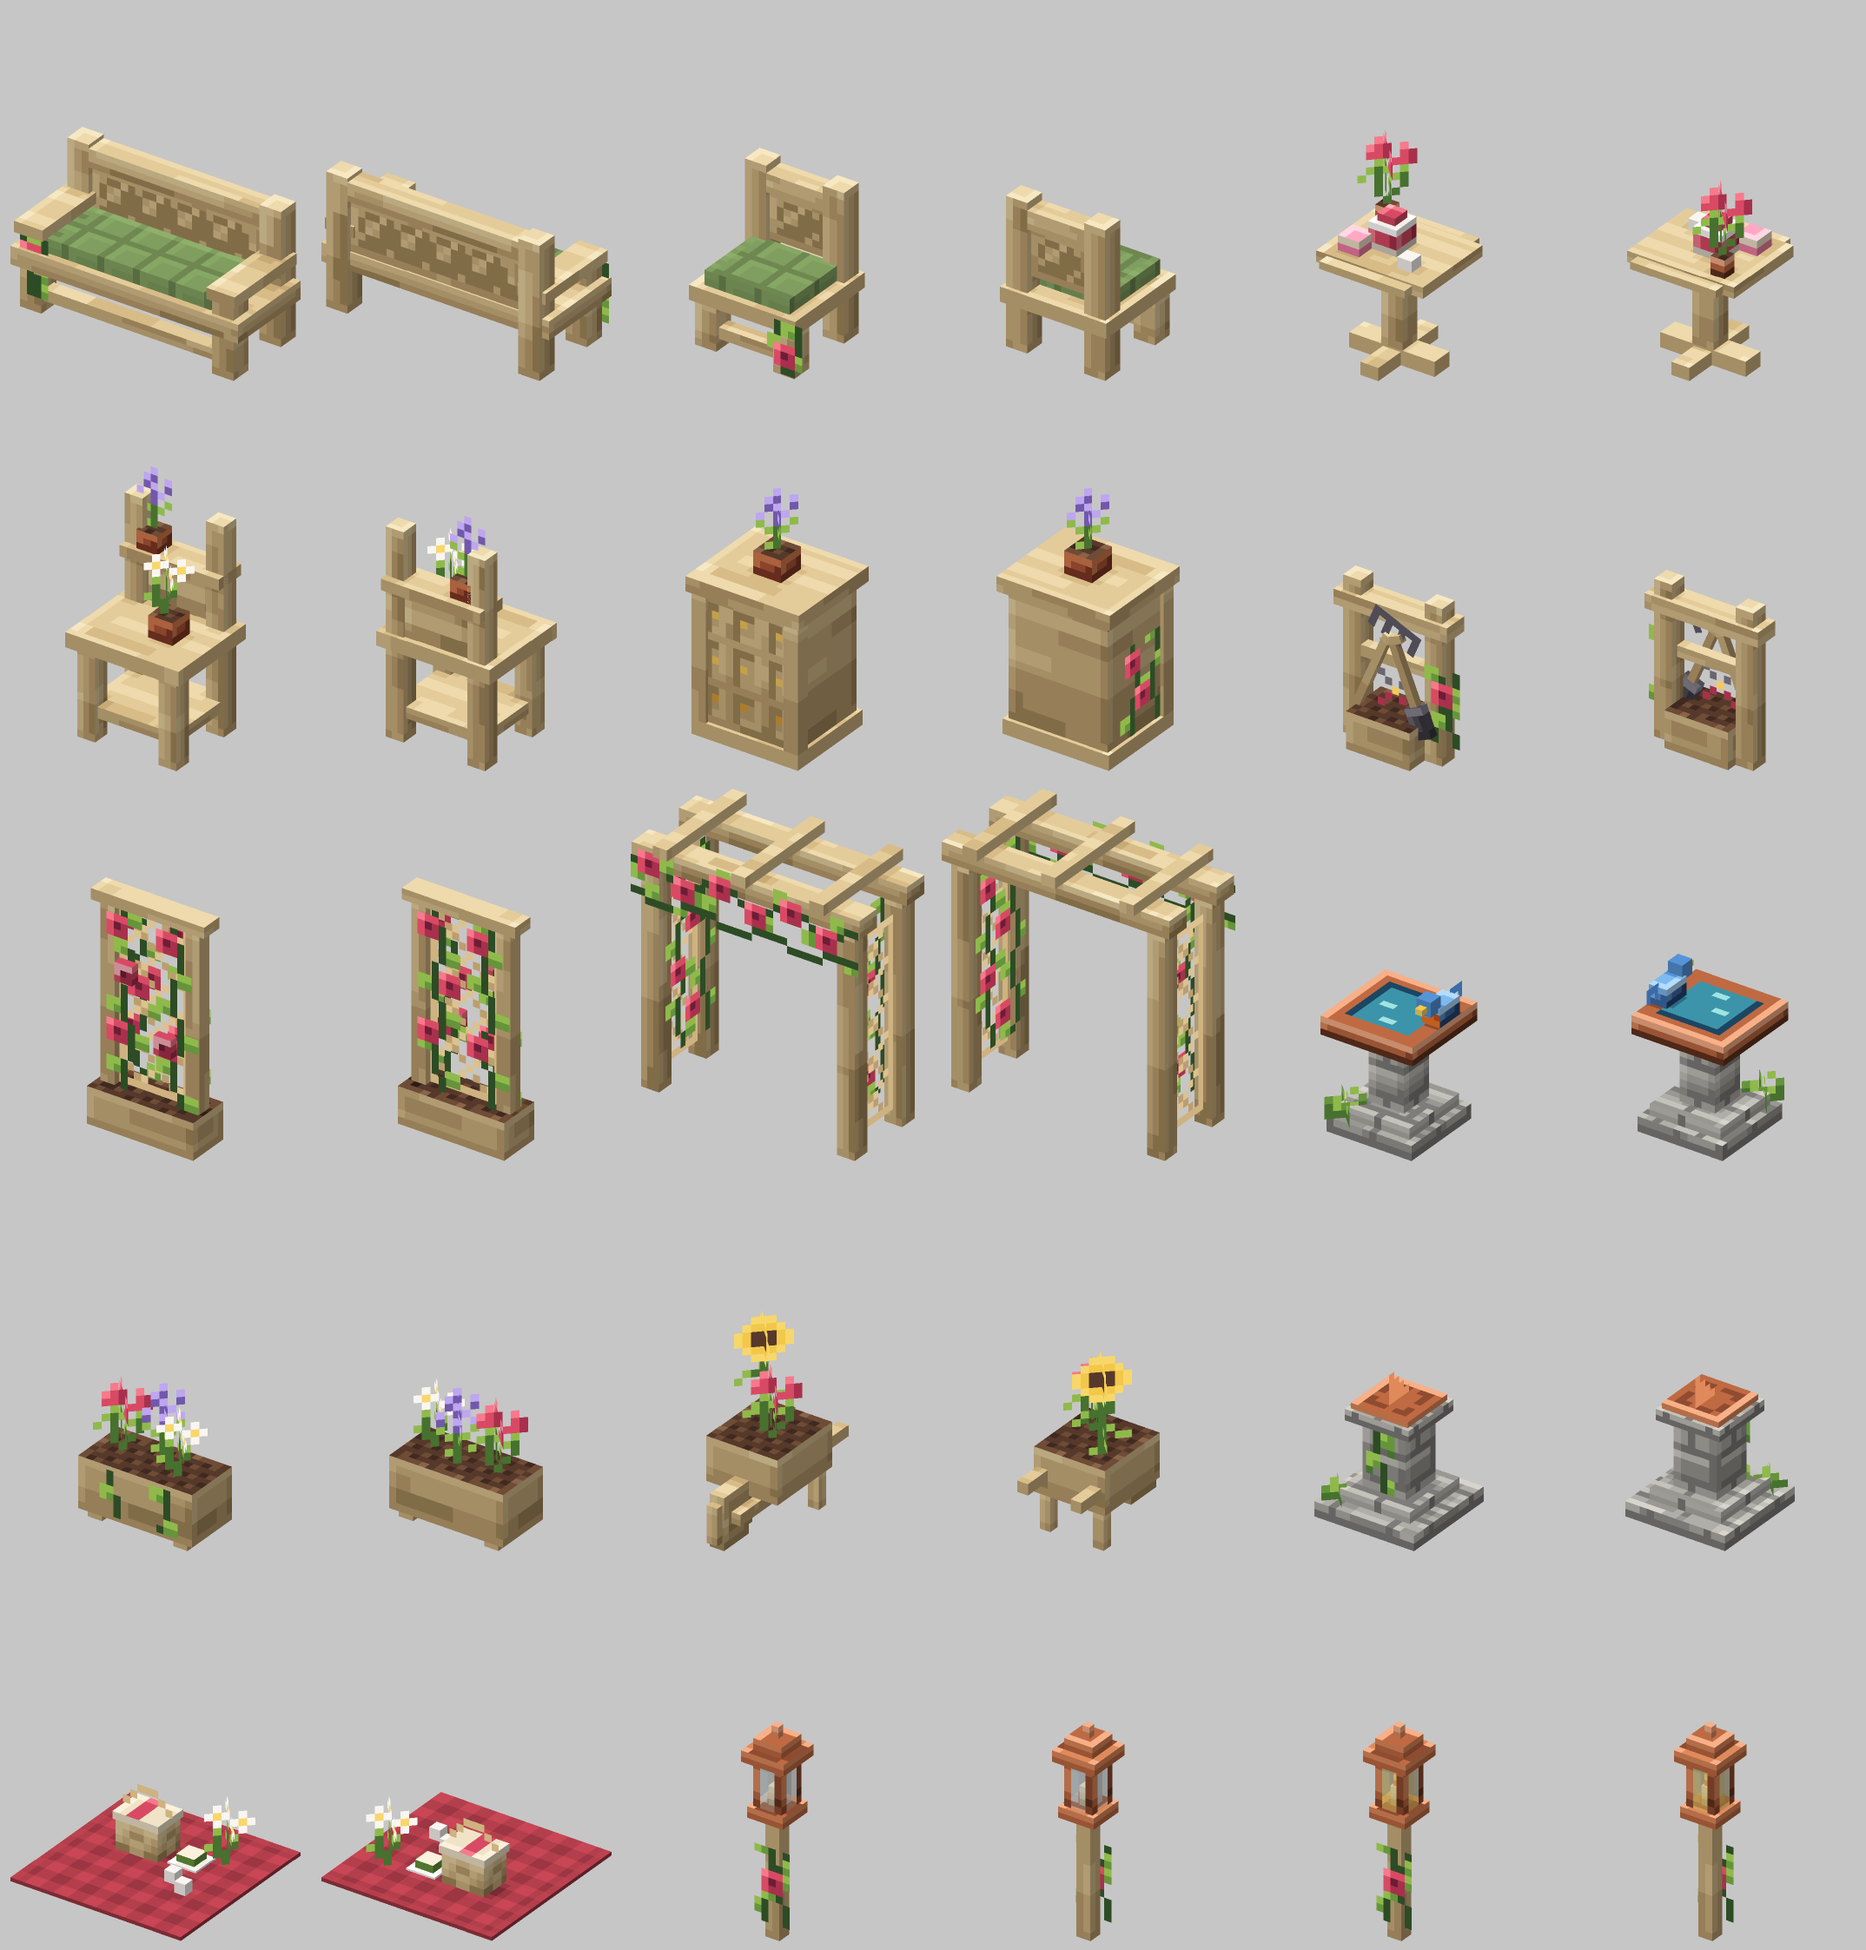
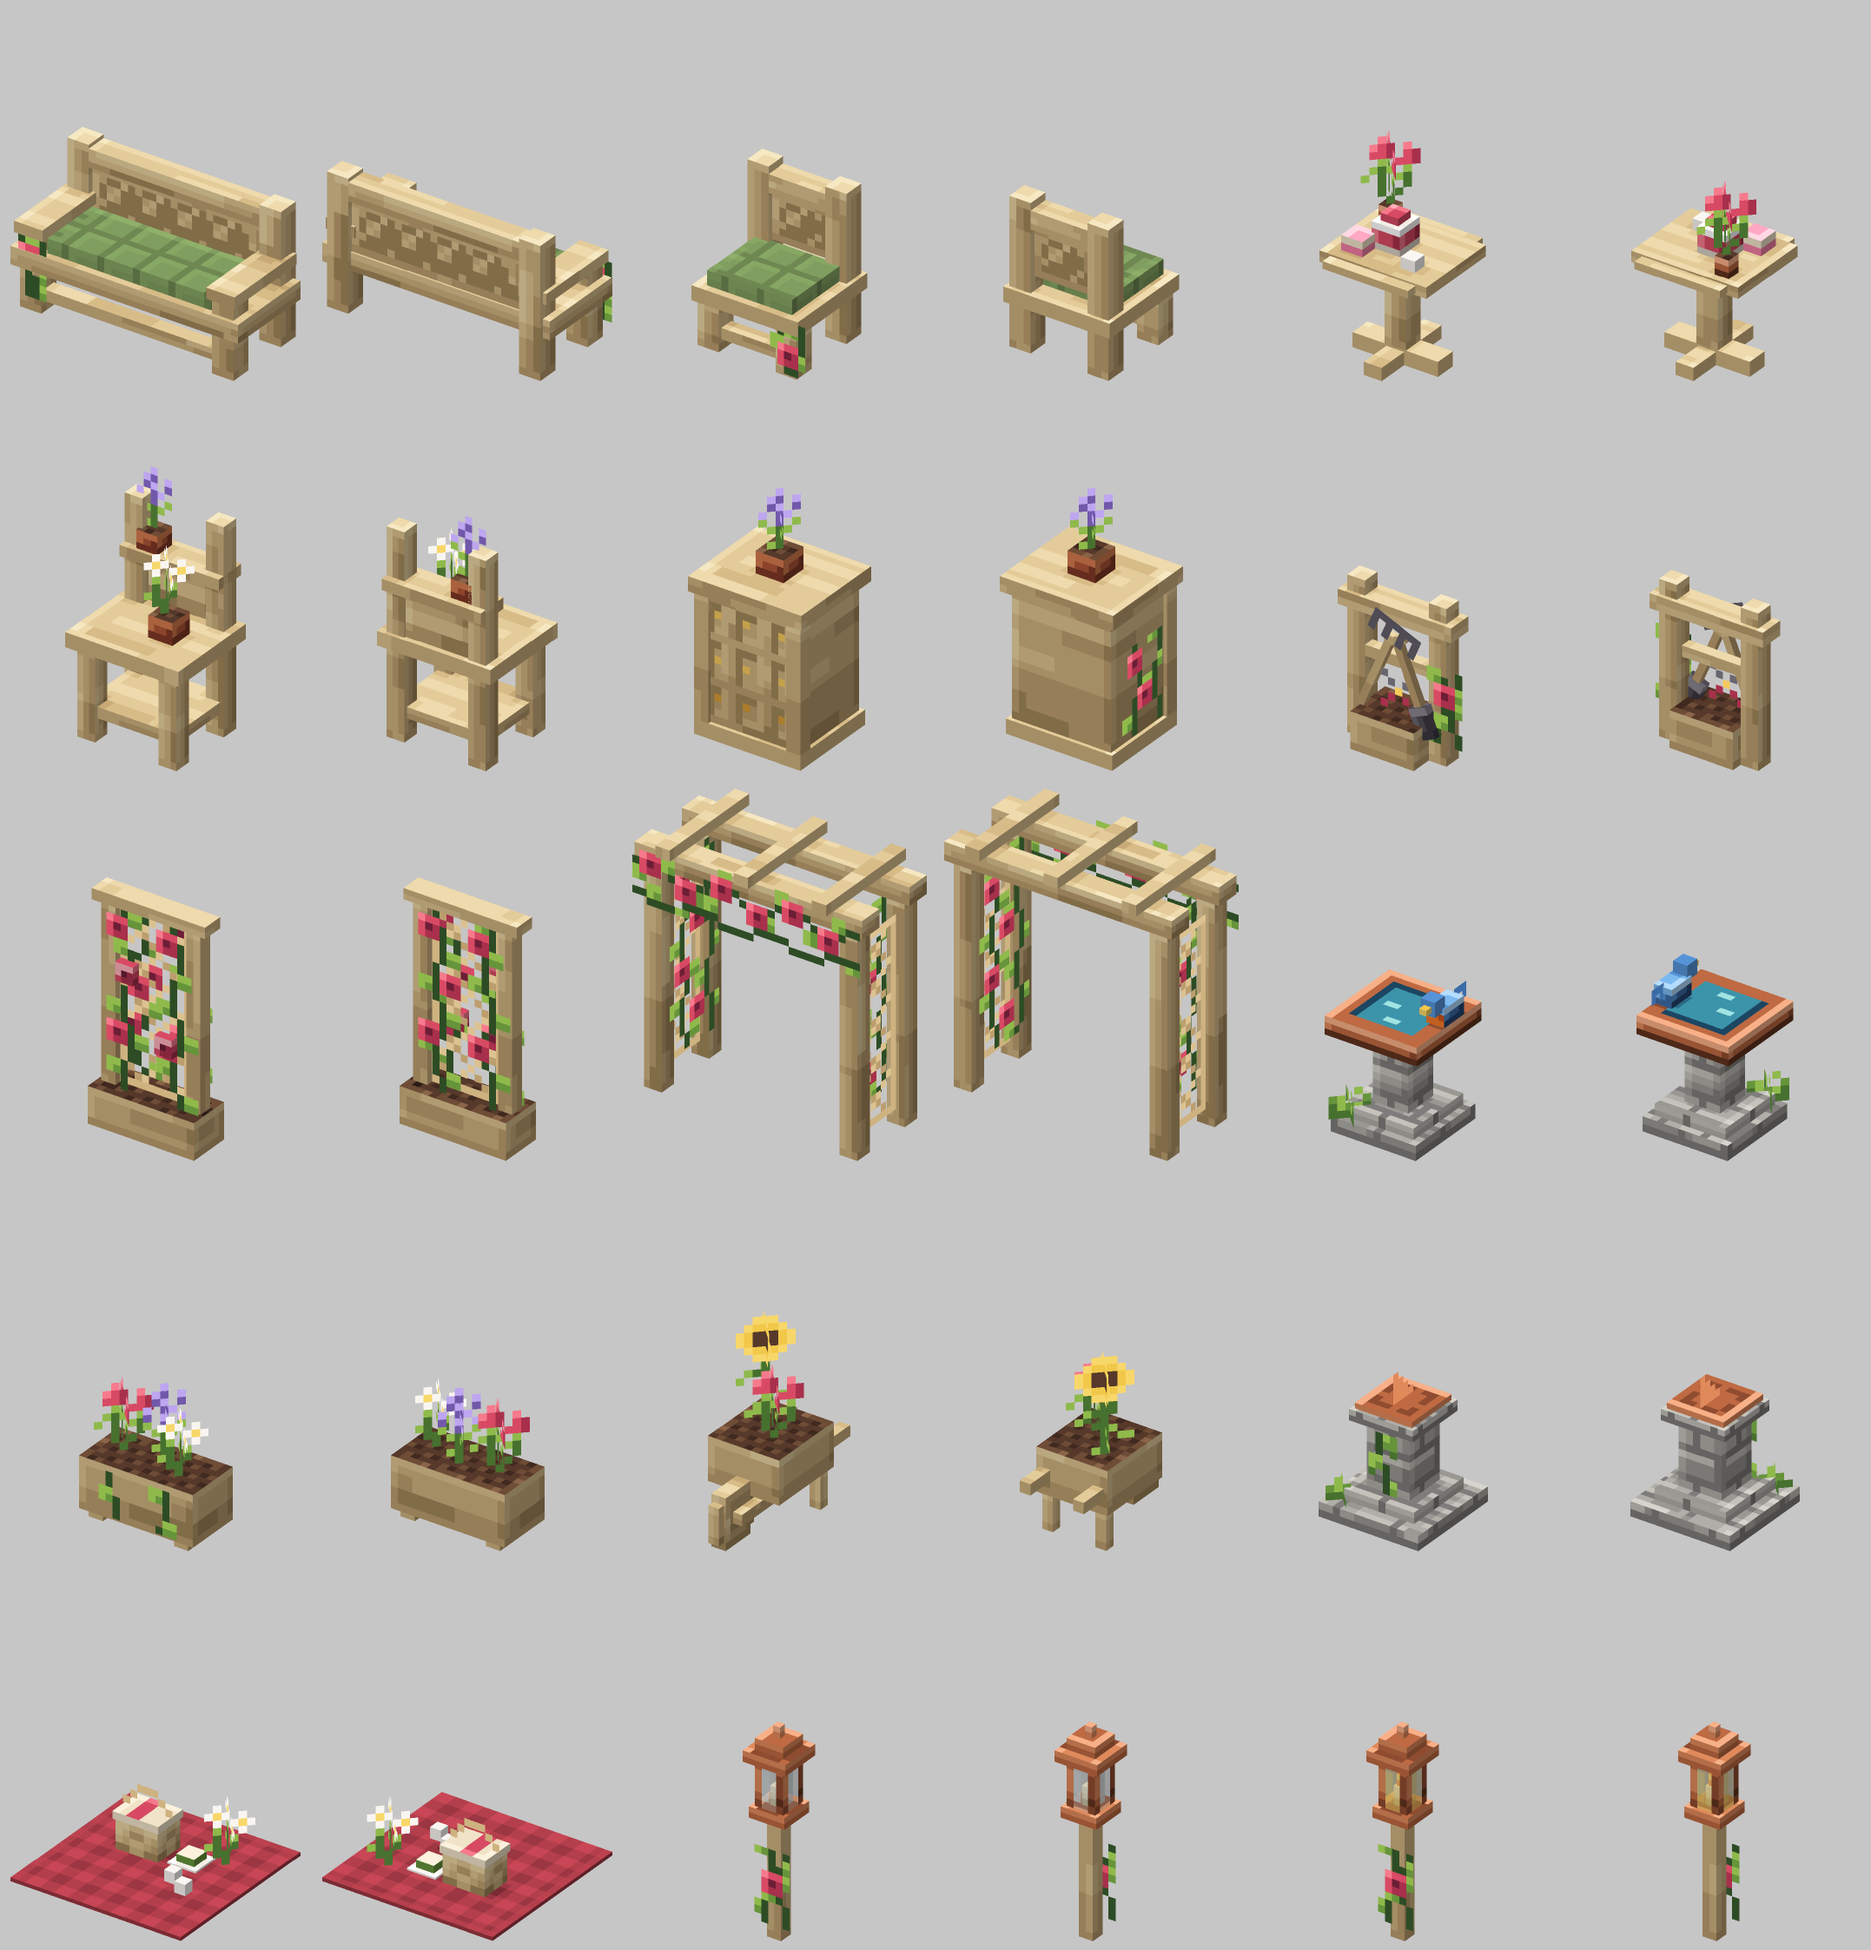
Rosewick Garden v2: plant cards 0.4 px off surfaces (no flicker)
Claude-Session: https://claude.ai/code/session_01L4Vzzqgp6xPXKKxPrj76v5

diff --git a/rosewick-garden/src-v2/rw_pieces.py b/rosewick-garden/src-v2/rw_pieces.py
@@ -53,7 +53,7 @@ def garden_bench():
     m.box('back', (4, 8, 2.75), (24, 7, 1.5), A.lattice_face(), skip=['up', 'down'])
     m.box('stretcher', (4, 1.5, 12), (24, 1.5, 2), WOOD, skip=['down'])
     m.box('cushion', (4.5, 8, 5), (23, 2, 9), fabric(), tint=True, skip=['down'])
-    m.plane('roses', (0, 2, 14.55), 'z', (5, 9), A.rose_vine(1.4, 1))
+    m.plane('roses', (0, 2, 14.9), 'z', (5, 9), A.rose_vine(1.4, 1))
     return shift(m, dx=-8)
 
 def garden_chair():
@@ -67,7 +67,7 @@ def garden_chair():
     m.box('back', (4, 10, 2.75), (8, 6.5, 1.5), A.lattice_face(), skip=['up', 'down'])
     m.box('stretcher', (4, 1.5, 12.5), (8, 1.5, 2), WOOD, skip=['down'])
     m.box('cushion', (2, 8, 4.5), (12, 2, 10), fabric(), tint=True, skip=['down'])
-    m.plane('roses', (11.5, 0.5, 15.55), 'z', (5, 7), A.rose_vine(1.4, 2))
+    m.plane('roses', (11.5, 0.5, 15.4), 'z', (5, 7), A.rose_vine(1.4, 2))
     return m
 
 def tea_table():
@@ -121,7 +121,7 @@ def seed_cabinet():
     m.box('top', (0, 19, 2), (16, 2, 14), RAIL)
     m.box('pot', (6, 21, 7), (4, 3, 4), pot(), skip=['down'])
     cross(m, 'lavender', 8, 24, 9, 5, 8, A.lavender())
-    m.plane('roses', (-0.05, 3, 4), 'x', (8, 12), A.rose_vine(1.2, 3))
+    m.plane('roses', (0.1, 3, 4), 'x', (8, 12), A.rose_vine(1.2, 3))
     return m
 
 def tool_rack():
@@ -133,13 +133,13 @@ def tool_rack():
     m.box('crate', (3.5, 0, 5.5), (9, 5, 7), {'up': A.soil_top(), '*': WOOD}, skip=['down'])
     r = ('z', -22.5, (5.5, 10, 10))
     m.box('rake_handle', (5, 3, 9.5), (1, 13, 1), A.handle(), rot=r)
-    m.plane('rake_head', (2.5, 15.5, 10.05), 'z', (7, 3), A.rake_head(), rot=r)
+    m.plane('rake_head', (2.5, 15.5, 10.9), 'z', (7, 3), A.rake_head(), rot=r)
     s = ('z', 22.5, (10.5, 10, 10))
     m.box('spade_handle', (10, 7, 9.5), (1, 9, 1), A.handle(), rot=s)
     m.box('spade_grip', (9, 15, 9.5), (3, 1, 1), WOOD, rot=s)
     m.box('spade_blade', (9.25, 3, 9.25), (2.5, 4, 1.5), A.iron(2), rot=s)
-    m.plane('shears', (5, 5.5, 9.65), 'z', (6, 5), A.shears())
-    m.plane('roses', (12.5, 3, 9.55), 'z', (5, 10), A.rose_vine(1.3, 4))
+    m.plane('shears', (5, 5.5, 9.9), 'z', (6, 5), A.shears())
+    m.plane('roses', (12.5, 3, 9.9), 'z', (5, 10), A.rose_vine(1.3, 4))
     return m
 
 def rose_trellis():
@@ -149,8 +149,8 @@ def rose_trellis():
     m.box('post_right', (13, 5, 7), (2, 24, 2), WOODV, skip=['down', 'up'])
     m.box('cap', (0, 29, 6.5), (16, 1.5, 3), RAIL)
     m.plane('lattice', (3, 5, 8), 'z', (10, 24), A.lattice_card())
-    m.plane('roses_front', (1, 5, 9.2), 'z', (14, 24), A.rose_vine(1.0, 0))
-    m.plane('roses_back', (1, 5, 6.8), 'z', (14, 24), A.rose_vine(1.0, 3))
+    m.plane('roses_front', (1, 5, 9.4), 'z', (14, 24), A.rose_vine(1.0, 0))
+    m.plane('roses_back', (1, 5, 6.6), 'z', (14, 24), A.rose_vine(1.0, 3))
     m.box('rose_a', (4, 20, 9.3), (2.5, 2.5, 1.2), _rose_box)
     m.box('rose_b', (9.5, 12, 9.3), (2.5, 2.5, 1.2), _rose_box)
     return m
@@ -171,9 +171,9 @@ def arbor_arch():
         m.box(f'rafter_{k}', (x, 32.5, 0), (2, 1.5, 16), RAIL)
     m.plane('lattice_left', (2.25, 2, 4.5), 'x', (7, 26), A.lattice_card())
     m.plane('lattice_right', (29.75, 2, 4.5), 'x', (7, 26), A.lattice_card())
-    m.plane('roses_left', (3.7, 4, 3), 'x', (10, 26), A.rose_vine(1.1, 1))
-    m.plane('roses_right', (28.3, 4, 3), 'x', (10, 26), A.rose_vine(1.1, 2))
-    m.plane('garland', (0, 25, 14.7), 'z', (32, 8), A.rose_vine(1.3, 0, horizontal=True))
+    m.plane('roses_left', (3.9, 4, 3), 'x', (10, 26), A.rose_vine(1.1, 1))
+    m.plane('roses_right', (28.1, 4, 3), 'x', (10, 26), A.rose_vine(1.1, 2))
+    m.plane('garland', (0, 25, 14.9), 'z', (32, 8), A.rose_vine(1.3, 0, horizontal=True))
     return shift(m, dx=-8, dy=-16)
 
 def birdbath():
@@ -198,7 +198,7 @@ def flower_box():
     cross(m, 'roses', 3.5, 8, 8, 7, 9, A.rose_bush())
     cross(m, 'lavender', 8.5, 8, 7, 5, 10, A.lavender())
     cross(m, 'daisies', 12.5, 8, 9, 6, 8, A.daisy())
-    m.plane('front_roses', (1, 1.5, 12.05), 'z', (14, 6), A.rose_vine(1.6, 2))
+    m.plane('front_roses', (1, 1.5, 12.4), 'z', (14, 6), A.rose_vine(1.6, 2))
     return m
 
 def wheelbarrow():
@@ -226,7 +226,7 @@ def sundial():
     m.box('cap', (3.5, 12.5, 3.5), (9, 1.5, 9), STONE)
     m.box('dial', (4, 14, 4), (8, 0.75, 8), A.dial_top(), skip=['down'])
     m.plane('gnomon', (8, 14.75, 5), 'x', (5, 4), rows_art(GNOMON, {"c": ("copper", 1)}))
-    m.plane('ivy', (4.5, 3.5, 11.05), 'z', (5, 8), ivy())
+    m.plane('ivy', (4.5, 3.5, 11.4), 'z', (5, 8), ivy())
     cross(m, 'grass', 3, 2, 13, 4, 3, grass())
     return m
 
@@ -259,7 +259,7 @@ def stake_lantern(lit=False):
     m.box('roof', (5, 23.5, 5), (6, 1.5, 6), A.copper())
     m.box('roof_top', (6, 25, 6), (4, 1.5, 4), A.copper())
     m.box('finial', (7.5, 26.5, 7.5), (1, 1.5, 1), A.copper(1))
-    m.plane('roses', (5.5, 2, 9.05), 'z', (5, 10), A.rose_vine(1.3, 5))
+    m.plane('roses', (5.5, 2, 9.4), 'z', (5, 10), A.rose_vine(1.3, 5))
     return m
 
 def _lantern_glass(lit):
